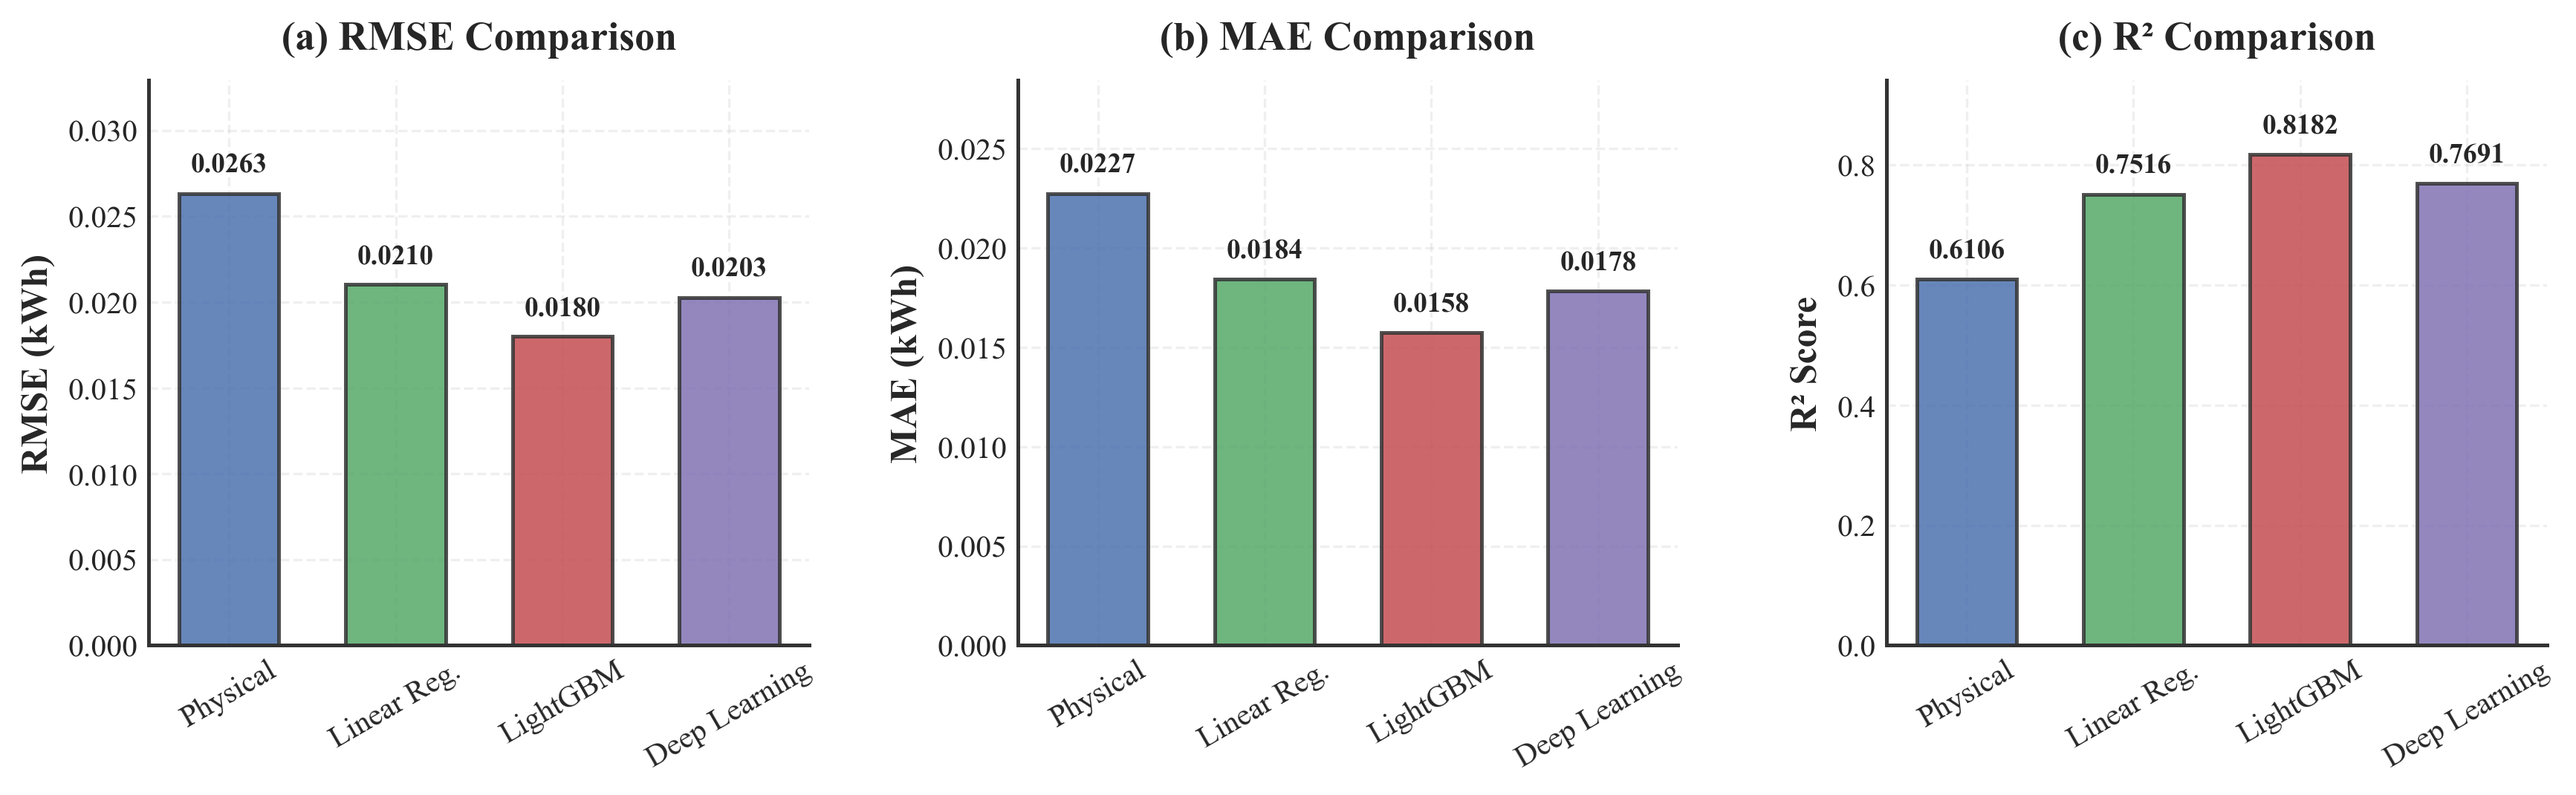
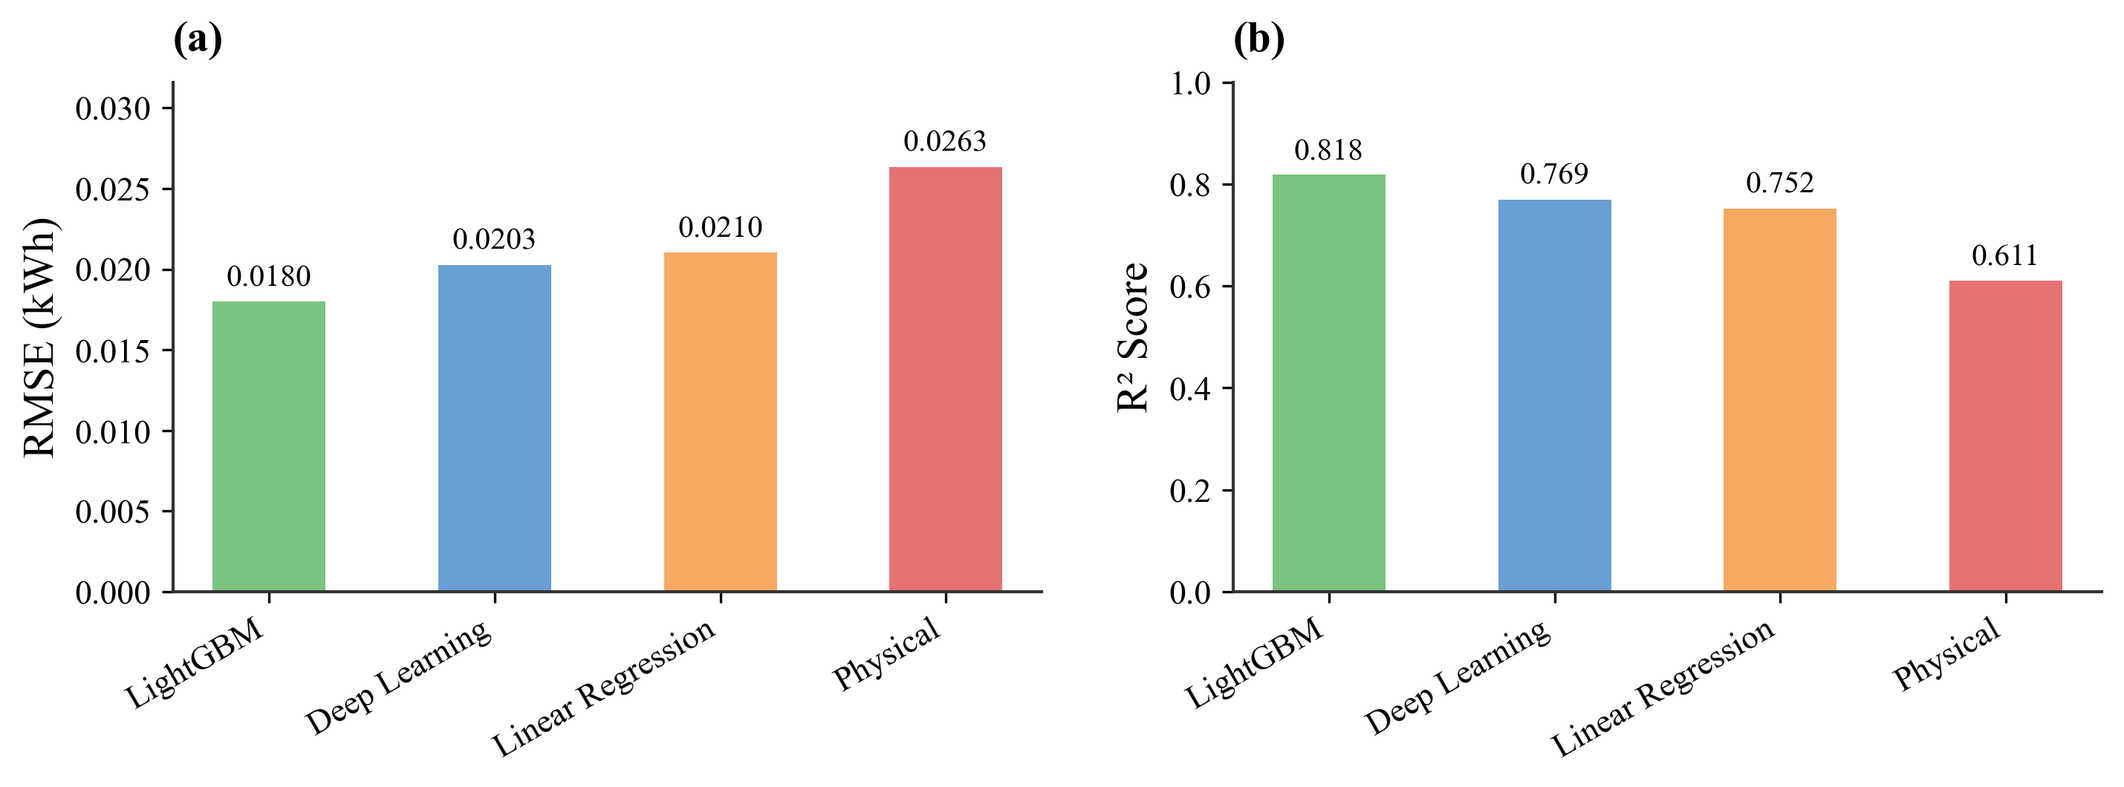
小修

diff --git a/evaluate_energy_models.py b/evaluate_energy_models.py
@@ -344,109 +344,98 @@ class EnergyModelEvaluator:
         self.plot_prediction_scatter(features, targets)
     
     def plot_performance_comparison(self):
-        """绘制性能对比图 - SCI论文风格"""
+        """绘制性能对比图 - 与参考图片风格一致"""
         if not self.evaluation_results:
             return
         
         try:
-            # SCI论文风格设置
-            plt.style.use('seaborn-v0_8-whitegrid')
+            # 设置绘图风格
             plt.rcParams.update({
                 'font.family': 'Times New Roman',
-                'font.size': 11,
-                'axes.labelsize': 12,
-                'axes.titlesize': 13,
-                'xtick.labelsize': 10,
-                'ytick.labelsize': 10,
-                'legend.fontsize': 10,
-                'axes.linewidth': 1.2,
-                'axes.edgecolor': '#333333',
-                'grid.alpha': 0.3,
-                'grid.linestyle': '--',
+                'font.size': 12,
+                'axes.labelsize': 14,
+                'axes.titlesize': 14,
+                'xtick.labelsize': 11,
+                'ytick.labelsize': 11,
+                'axes.linewidth': 1.0,
             })
             
-            # 准备数据
-            model_names = list(self.evaluation_results.keys())
+            # 指定模型顺序：树模型 → 深度学习 → 线性模型 → 物理模型
+            model_order = ['tree', 'deep', 'linear', 'physical']
+            
             # 模型名称美化
             display_names = {
                 'physical': 'Physical',
-                'linear': 'Linear Reg.',
+                'linear': 'Linear Regression',
                 'tree': 'LightGBM',
                 'deep': 'Deep Learning'
             }
-            labels = [display_names.get(name, name) for name in model_names]
             
-            rmse_values = [self.evaluation_results[name]['RMSE'] for name in model_names]
-            mae_values = [self.evaluation_results[name]['MAE'] for name in model_names]
-            r2_values = [self.evaluation_results[name]['R2'] for name in model_names]
+            # 按指定顺序筛选存在的模型
+            ordered_models = [m for m in model_order if m in self.evaluation_results]
             
-            # SCI配色方案 (Nature风格)
-            colors = ['#4C72B0', '#55A868', '#C44E52', '#8172B3'][:len(model_names)]
+            labels = [display_names.get(name, name) for name in ordered_models]
+            rmse_values = [self.evaluation_results[name]['RMSE'] for name in ordered_models]
+            r2_values = [self.evaluation_results[name]['R2'] for name in ordered_models]
             
-            # 创建图形
-            fig, axes = plt.subplots(1, 3, figsize=(12, 4))
+            # 与参考图片一致的配色方案（绿、蓝、橙）
+            colors = ['#7BC47F', '#6A9FD4', '#F5A962', '#E57373'][:len(ordered_models)]
+            
+            # 创建图形 - 只显示RMSE和R²两个子图
+            fig, axes = plt.subplots(1, 2, figsize=(10, 4))
             
             # 通用柱状图样式
-            bar_width = 0.6
-            edge_color = '#333333'
+            bar_width = 0.5
             
             # (a) RMSE对比
             ax1 = axes[0]
-            bars1 = ax1.bar(labels, rmse_values, width=bar_width, color=colors, 
-                           edgecolor=edge_color, linewidth=1.2, alpha=0.85)
-            ax1.set_ylabel('RMSE (kWh)', fontweight='bold')
-            ax1.set_title('(a) RMSE Comparison', fontweight='bold', pad=10)
-            ax1.set_ylim(0, max(rmse_values) * 1.25)
-            ax1.tick_params(axis='x', rotation=30)
-            # 添加数值标签
+            x_pos = np.arange(len(labels))
+            bars1 = ax1.bar(x_pos, rmse_values, width=bar_width, color=colors, 
+                           edgecolor='none')
+            ax1.set_ylabel('RMSE (kWh)', fontweight='normal')
+            ax1.set_title('(a)', fontweight='bold', loc='left', pad=10)
+            ax1.set_ylim(0, max(rmse_values) * 1.2)
+            ax1.set_xticks(x_pos)
+            ax1.set_xticklabels(labels, rotation=30, ha='right')
+            
+            # 添加数值标签 - 在柱子顶部
             for bar, value in zip(bars1, rmse_values):
                 ax1.annotate(f'{value:.4f}', 
                             xy=(bar.get_x() + bar.get_width()/2, bar.get_height()),
-                            xytext=(0, 5), textcoords='offset points',
-                            ha='center', va='bottom', fontsize=9, fontweight='bold')
+                            xytext=(0, 3), textcoords='offset points',
+                            ha='center', va='bottom', fontsize=10)
+            
+            # 移除上边和右边边框
             ax1.spines['top'].set_visible(False)
             ax1.spines['right'].set_visible(False)
+            ax1.spines['left'].set_color('#333333')
+            ax1.spines['bottom'].set_color('#333333')
             
-            # (b) MAE对比
+            # (b) R² 对比
             ax2 = axes[1]
-            bars2 = ax2.bar(labels, mae_values, width=bar_width, color=colors,
-                           edgecolor=edge_color, linewidth=1.2, alpha=0.85)
-            ax2.set_ylabel('MAE (kWh)', fontweight='bold')
-            ax2.set_title('(b) MAE Comparison', fontweight='bold', pad=10)
-            ax2.set_ylim(0, max(mae_values) * 1.25)
-            ax2.tick_params(axis='x', rotation=30)
-            for bar, value in zip(bars2, mae_values):
-                ax2.annotate(f'{value:.4f}',
-                            xy=(bar.get_x() + bar.get_width()/2, bar.get_height()),
-                            xytext=(0, 5), textcoords='offset points',
-                            ha='center', va='bottom', fontsize=9, fontweight='bold')
+            # 过滤掉负值的R²用于显示（物理模型可能为负）
+            r2_display = [max(0, v) for v in r2_values]
+            bars2 = ax2.bar(x_pos, r2_display, width=bar_width, color=colors,
+                           edgecolor='none')
+            ax2.set_ylabel('R² Score', fontweight='normal')
+            ax2.set_title('(b)', fontweight='bold', loc='left', pad=10)
+            ax2.set_ylim(0, 1.0)
+            ax2.set_xticks(x_pos)
+            ax2.set_xticklabels(labels, rotation=30, ha='right')
+            
+            # 添加数值标签
+            for bar, value in zip(bars2, r2_values):
+                display_val = max(0, value)
+                ax2.annotate(f'{value:.3f}', 
+                            xy=(bar.get_x() + bar.get_width()/2, display_val),
+                            xytext=(0, 3), textcoords='offset points',
+                            ha='center', va='bottom', fontsize=10)
+            
+            # 移除上边和右边边框
             ax2.spines['top'].set_visible(False)
             ax2.spines['right'].set_visible(False)
-            
-            # (c) R² 对比
-            ax3 = axes[2]
-            bars3 = ax3.bar(labels, r2_values, width=bar_width, color=colors,
-                           edgecolor=edge_color, linewidth=1.2, alpha=0.85)
-            ax3.set_ylabel('R² Score', fontweight='bold')
-            ax3.set_title('(c) R² Comparison', fontweight='bold', pad=10)
-            # R²可能有负值，设置合适的范围
-            min_r2 = min(r2_values)
-            max_r2 = max(r2_values)
-            if min_r2 < 0:
-                ax3.set_ylim(min_r2 * 1.2, max_r2 * 1.15)
-                ax3.axhline(y=0, color='#666666', linestyle='-', linewidth=0.8, alpha=0.5)
-            else:
-                ax3.set_ylim(0, max_r2 * 1.15)
-            ax3.tick_params(axis='x', rotation=30)
-            for bar, value in zip(bars3, r2_values):
-                offset = 5 if value >= 0 else -15
-                va = 'bottom' if value >= 0 else 'top'
-                ax3.annotate(f'{value:.4f}',
-                            xy=(bar.get_x() + bar.get_width()/2, bar.get_height()),
-                            xytext=(0, offset), textcoords='offset points',
-                            ha='center', va=va, fontsize=9, fontweight='bold')
-            ax3.spines['top'].set_visible(False)
-            ax3.spines['right'].set_visible(False)
+            ax2.spines['left'].set_color('#333333')
+            ax2.spines['bottom'].set_color('#333333')
             
             plt.tight_layout(pad=2.0)
             plt.savefig('result/energy_models_performance_comparison.png', 
@@ -466,28 +455,24 @@ class EnergyModelEvaluator:
             traceback.print_exc()
     
     def plot_prediction_scatter(self, features, targets):
-        """绘制预测vs真值散点图 - SCI论文风格"""
+        """绘制预测vs真值散点图 - 与参考图片风格一致"""
         if not self.evaluation_results:
             return
         
         try:
-            # SCI论文风格设置
-            plt.style.use('seaborn-v0_8-whitegrid')
+            # 设置绘图风格
             plt.rcParams.update({
                 'font.family': 'Times New Roman',
-                'font.size': 11,
-                'axes.labelsize': 12,
-                'axes.titlesize': 13,
-                'xtick.labelsize': 10,
-                'ytick.labelsize': 10,
-                'legend.fontsize': 10,
-                'axes.linewidth': 1.2,
-                'axes.edgecolor': '#333333',
+                'font.size': 12,
+                'axes.labelsize': 14,
+                'axes.titlesize': 14,
+                'xtick.labelsize': 11,
+                'ytick.labelsize': 11,
+                'axes.linewidth': 1.0,
             })
             
-            n_models = len([m for m in self.models.values() if m is not None])
-            if n_models == 0:
-                return
+            # 指定模型顺序：树模型 → 深度学习 → 线性模型 → 物理模型
+            model_order = ['tree', 'deep', 'linear', 'physical']
             
             # 模型名称美化
             display_names = {
@@ -497,8 +482,8 @@ class EnergyModelEvaluator:
                 'deep': 'Deep Learning'
             }
             
-            # SCI配色方案
-            colors = ['#4C72B0', '#55A868', '#C44E52', '#8172B3']
+            # 与参考图片一致的配色方案（绿、蓝、橙、红）
+            colors = ['#7BC47F', '#6A9FD4', '#F5A962', '#E57373']
             
             fig, axes = plt.subplots(2, 2, figsize=(10, 9))
             axes = axes.flatten()
@@ -506,9 +491,11 @@ class EnergyModelEvaluator:
             subplot_labels = ['(a)', '(b)', '(c)', '(d)']
             
             plot_idx = 0
-            for model_name, model in self.models.items():
-                if model is None or plot_idx >= 4:
+            for model_name in model_order:
+                if model_name not in self.models or self.models[model_name] is None or plot_idx >= 4:
                     continue
+                
+                model = self.models[model_name]
                 
                 # 获取预测值
                 predictions = self.predict_energy(
